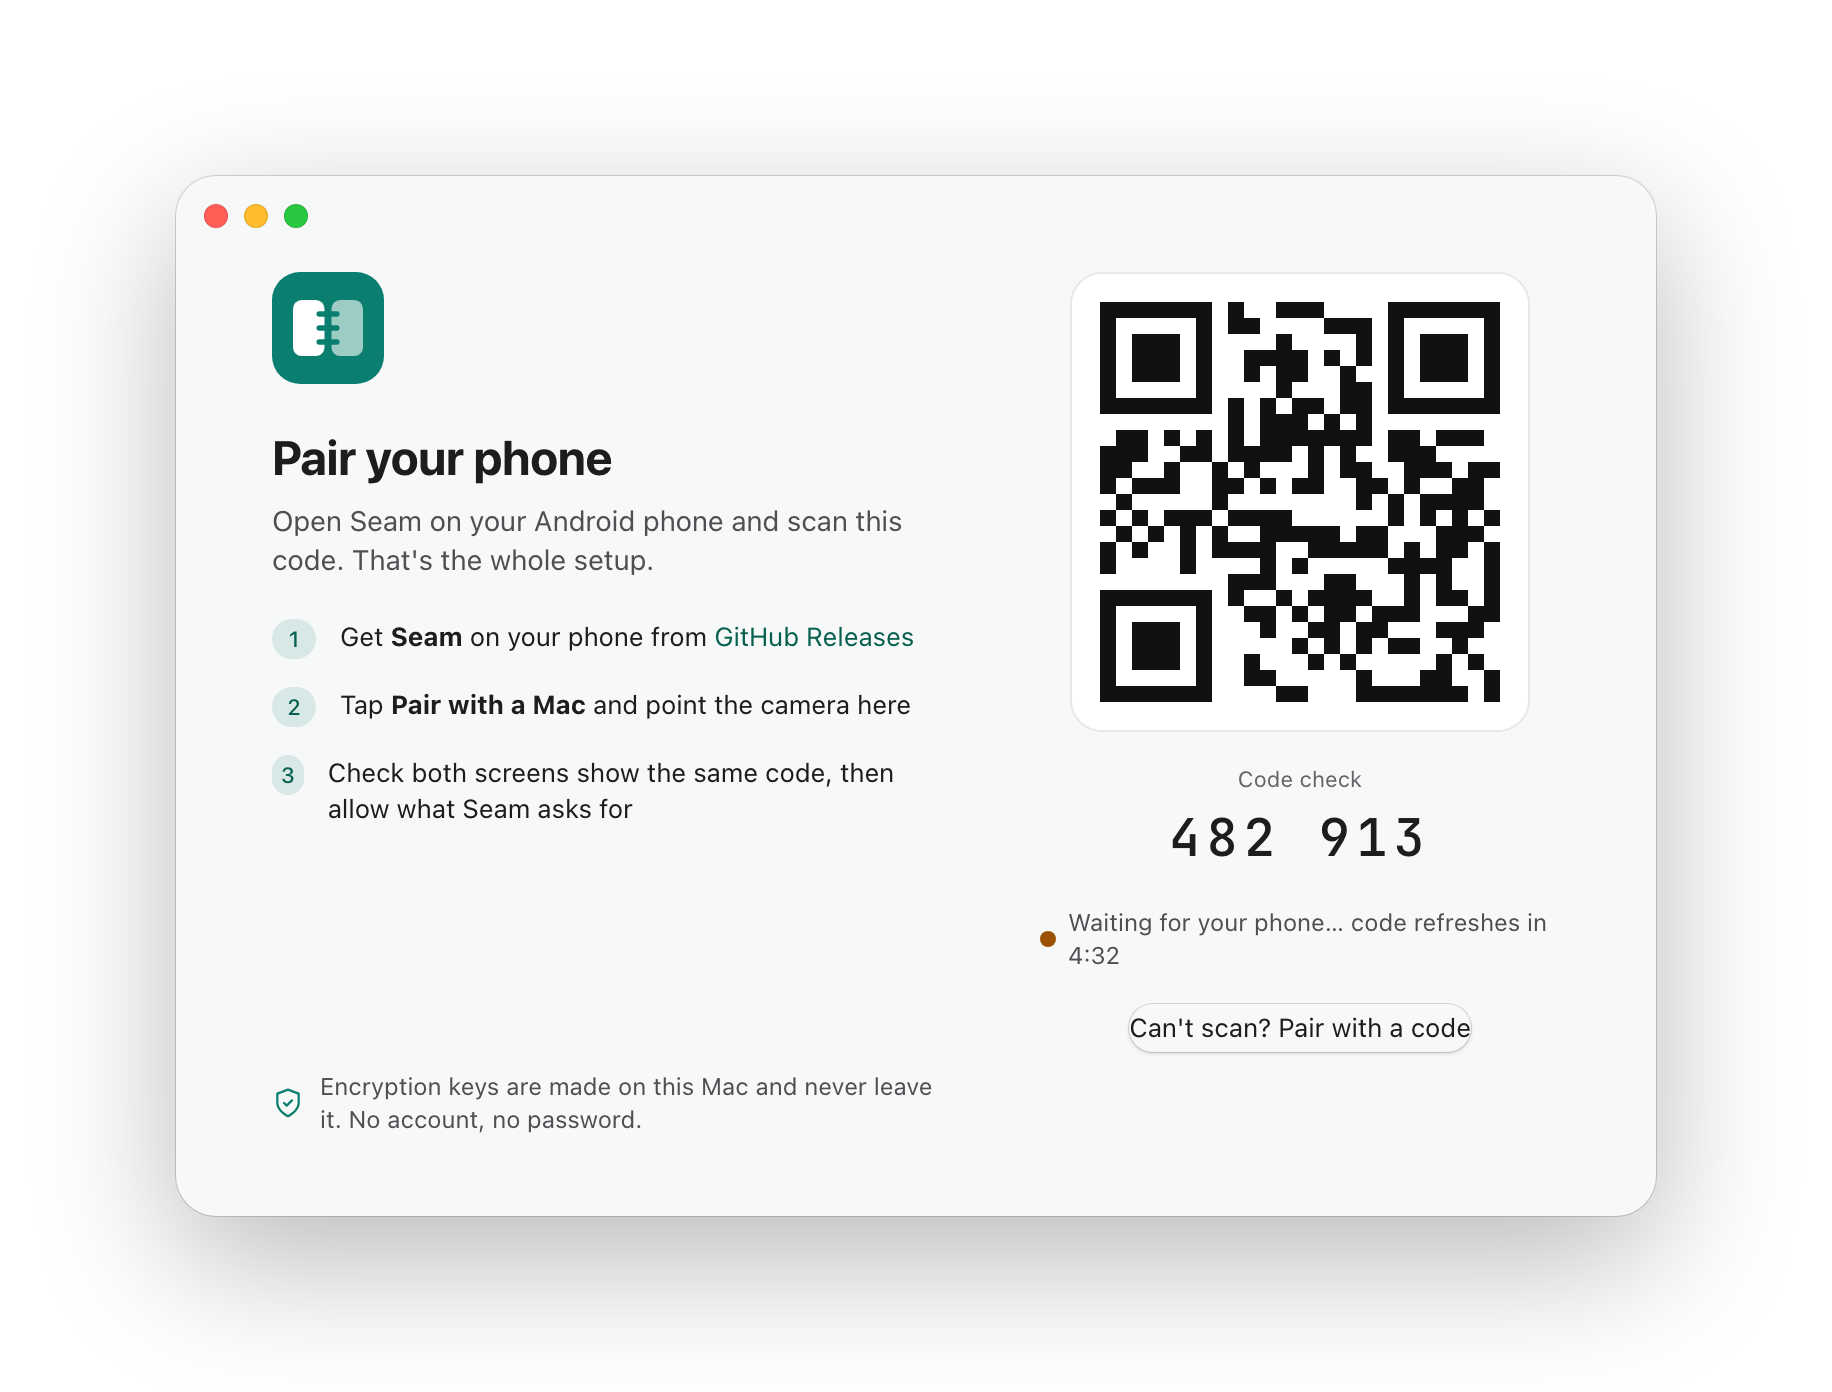
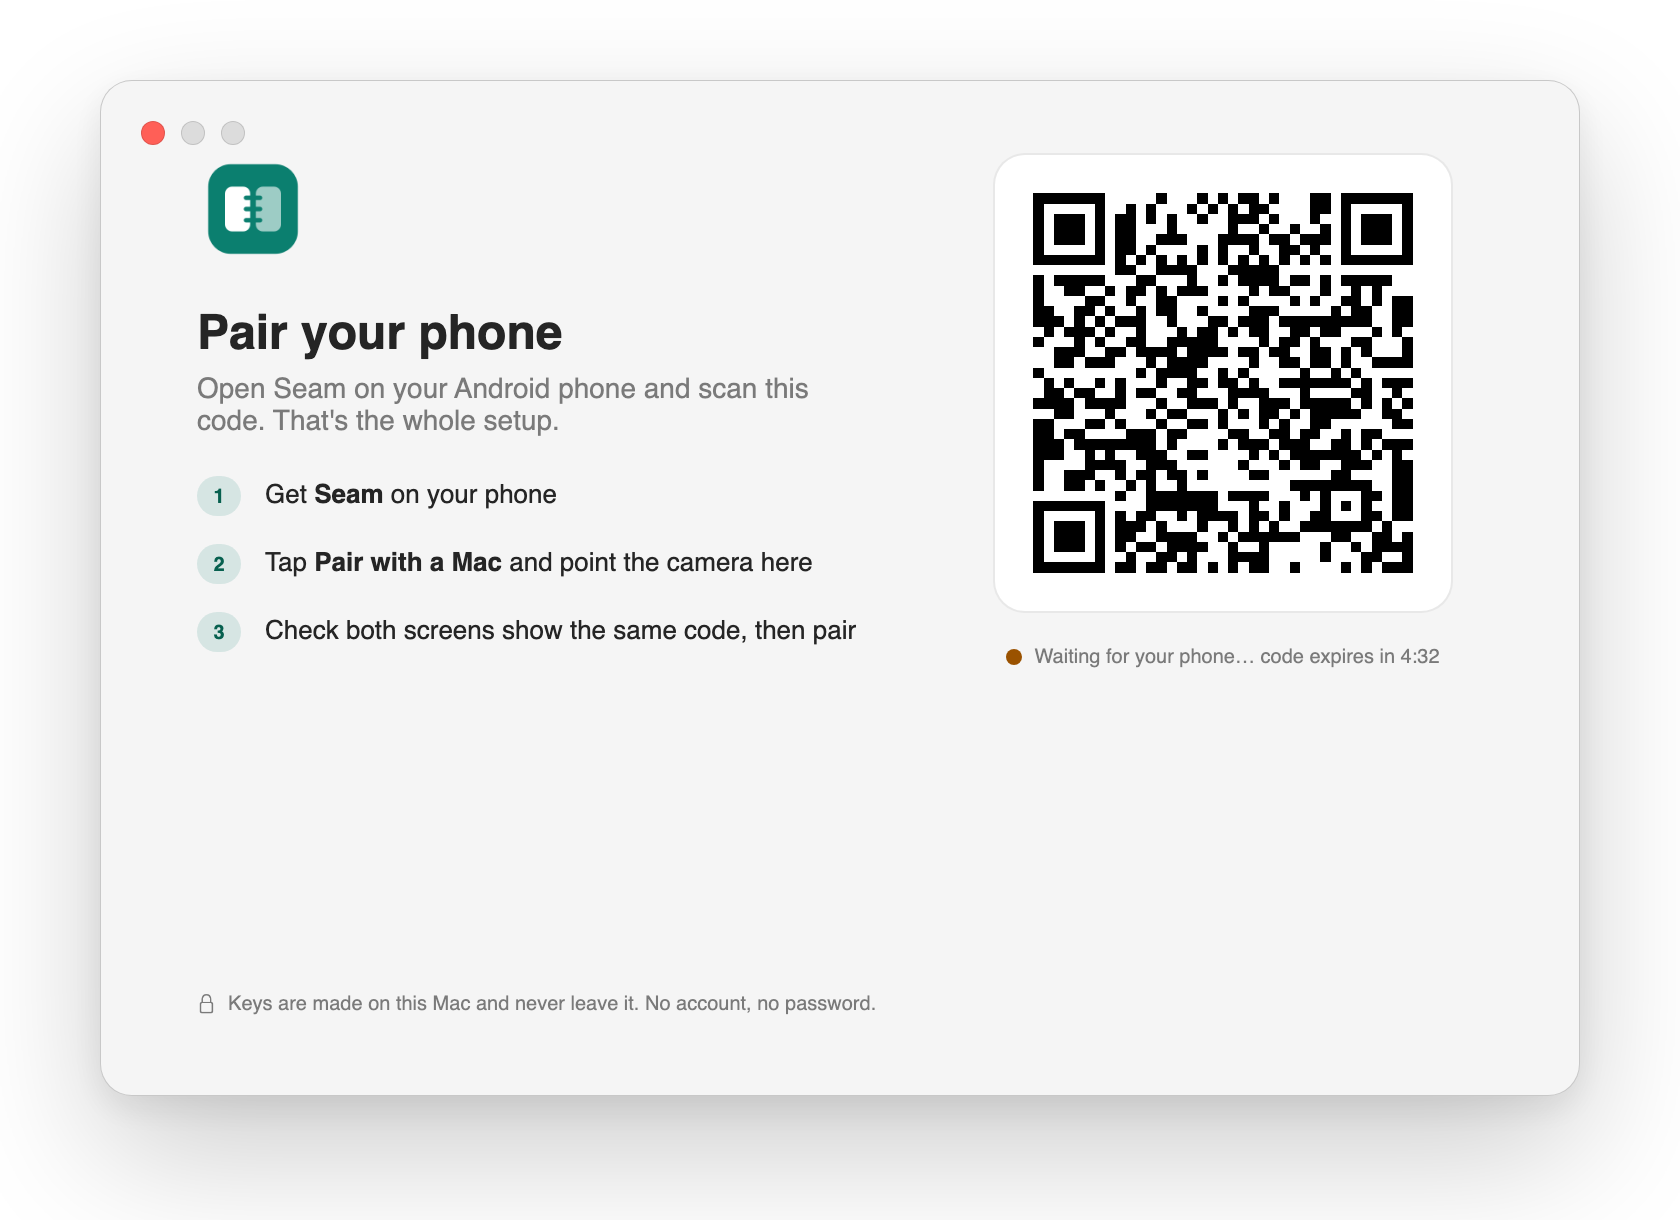
README: show only what Seam does today (#41)
## Summary

The README's pictures were design mockups showing features Seam doesn't
have (Lock Mac, Files, Photos, Ring phone, Messages…). They now show the
redesigned apps on main (#43, #44), and the text claims were checked
against the code and against each competitor's own pages.

```diff
 assets/readme/
-├── hero-animated.png        # mockup: Lock Mac, Files, Photos, Send file, Ring phone, Messages, Mark read
+├── hero-animated.png        # Mac: the approved popover prototype PopoverView.swift is built to; phone: real app renders from ScreensTest
-├── mac-notifications.png    # main window with Messages, Unread, "Open on phone" (not released)
-├── pairing.png              # "Can't scan? Pair with a code" and a code check that doesn't show yet
+├── pairing.png              # PairingView.swift while it waits for the phone
 ├── messages.png             # unchanged, under "Coming soon", captioned as planned
+└── src/                     # HTML for each picture; render.sh re-renders them (Chrome, Gradle, Pillow)
```

Also:
- **Mac:** pairing step 2 says "Tap **Pair with a Mac**", the phone's
real button (it said "Scan pairing code", which doesn't exist).
- **README:** Roadmap removed; the changelog link moves to Install; the
stale "(0.2.2)" goes. "No buttons" for phone copies now says automatic
clipboard has to be switched on once, or it's a tap of **Send
clipboard**.
- **Comparison table**, from each project's own pages: KDE Connect has a
stable Mac release
[…]

diff --git a/assets/readme/src/hero.html b/assets/readme/src/hero.html
@@ -1,0 +1,62 @@
+<!doctype html>
+<!-- README hero: text copied on the Mac lands on the phone. The Mac side is the approved popover
+     prototype (docs/design/prototypes/mac-popover.html), which PopoverView.swift is built to; the
+     phone is two real renders of the app from ScreensTest (home-wifi, then home-clip). -->
+<html><head><meta charset="utf-8"><style>
+* { box-sizing: border-box; margin: 0; padding: 0; }
+html, body { width: 1000px; height: 920px; background: transparent; overflow: hidden; color-scheme: light; }
+#mac { position: absolute; left: -32px; top: 162px; width: 480px; height: 660px; border: 0; transform: scale(1.12); transform-origin: 0 0; }
+
+.bezel { position: absolute; left: 540px; top: 49px; width: 382px; height: 822px; border-radius: 56px; background: #16191a;
+  box-shadow: 0 30px 70px rgba(0,0,0,.22), 0 6px 18px rgba(0,0,0,.12), inset 0 0 0 1.5px #2a2e30; }
+.screen { position: absolute; left: 11px; top: 11px; width: 360px; height: 800px; border-radius: 45px; overflow: hidden; }
+.screen img { position: absolute; inset: 0; width: 100%; height: 100%; }
+
+/* The copy in flight */
+.fly { position: absolute; left: 0; top: 0; height: 40px; padding: 0 16px 0 7px; border-radius: 20px; background: #0B6F61; color: #fff;
+  display: flex; align-items: center; gap: 10px; font: 600 15px -apple-system, sans-serif; white-space: nowrap;
+  box-shadow: 0 0 0 6px rgba(11,127,111,.16), 0 10px 28px rgba(11,111,97,.45); transform-origin: center; }
+.fly .k { background: rgba(255,255,255,.18); border-radius: 13px; padding: 4px 9px; font-size: 13px; }
+</style></head><body>
+
+<iframe id="mac" src="mac-popover.html"></iframe>
+
+<div class="bezel"><div class="screen">
+  <img src="home-wifi.png">
+  <img src="home-clip.png" id="clip">
+</div></div>
+
+<div class="fly" id="fly"><span class="k">⌘C</span>harbour-lights-42</div>
+
+<script>
+// Only the popover from the prototype page: no menu bar, controls or opening animation; light theme
+document.getElementById("mac").onload = e => {
+  const doc = e.target.contentDocument, s = doc.createElement("style");
+  s.textContent = ":root{color-scheme:light}body{background:transparent}.bar,.panel{display:none}" +
+    ".stage{justify-content:flex-start;padding:60px}*{transition:none!important}.pop,.stagger,.s-solid,.dot::after{animation:none!important}" +
+    // PopoverTiles.swift sizes Notifications to its words and gives Clipboard the rest
+    ".tiles{grid-template-columns:1fr auto}";
+  doc.head.append(s);
+  doc.getElementById("pop").classList.add("light");
+};
+
+// Frame n of 19 (from the URL hash): pill fades in over the popover, arcs to the phone, becomes the card
+const n = +location.hash.slice(1) || 19;
+const fly = document.getElementById("fly"), clip = document.getElementById("clip");
+const w = fly.offsetWidth, h = fly.offsetHeight;
+const from = [240, 440], to = [690, 546], ctrl = [620, 240];
+const ease = t => t < .5 ? 2 * t * t : 1 - (-2 * t + 2) ** 2 / 2;
+function at(t, scale, alpha) {
+  const u = 1 - t, x = u*u*from[0] + 2*u*t*ctrl[0] + t*t*to[0], y = u*u*from[1] + 2*u*t*ctrl[1] + t*t*to[1];
+  fly.style.transform = `translate(${x - w/2}px, ${y - h/2}px) scale(${scale})`;
+  fly.style.opacity = alpha;
+}
+//            1   2    3    4    5   6    7    8    9    10   11   12   13   14   15   16   17   18   19
+const path = [0,  0,   0,   0,   0,  .1,  .25, .42, .6,  .76, .88, .95, 1,   1,   1,   1,   1,   1,   1][n-1];
+const size = [1,  .8,  .9,  1,   1,  1,   1,   1,   .98, .95, .92, .9,  .9,  .9,  .9,  .9,  1,   1,   1][n-1];
+const show = [0,  .35, .7,  1,   1,  1,   1,   1,   1,   1,   1,   1,   .8,  .55, .3,  .1,  0,   0,   0][n-1];
+const cardA= [0,  0,   0,   0,   0,  0,   0,   0,   0,   0,   0,   0,   .3,  .55, .75, .9,  1,   1,   1][n-1];
+at(ease(path), size, show);
+clip.style.opacity = cardA;
+</script>
+</body></html>

diff --git a/assets/readme/src/pairing.html b/assets/readme/src/pairing.html
@@ -1,0 +1,47 @@
+<!doctype html>
+<!-- README: the Mac pairing window while it waits for the phone, as PairingView.swift draws it (pt = px). -->
+<html><head><meta charset="utf-8"><style>
+* { box-sizing: border-box; margin: 0; padding: 0; }
+html, body { width: 840px; height: 610px; background: transparent; overflow: hidden; }
+body { font: 13px -apple-system, sans-serif; color: rgba(0,0,0,.85); }
+.sym { display: inline-block; background: currentColor; -webkit-mask: var(--m) center / contain no-repeat; flex: none; }
+.sec { color: rgba(0,0,0,.5); }
+.win { position: absolute; left: 50px; top: 40px; width: 740px; height: 508px; border-radius: 16px; background: #f5f5f5;
+  border: 0.5px solid rgba(0,0,0,.18); box-shadow: 0 28px 70px rgba(0,0,0,.2), 0 6px 18px rgba(0,0,0,.08); }
+.lights { position: absolute; left: 20px; top: 20px; display: flex; gap: 8px; }
+.lights i { width: 12px; height: 12px; border-radius: 50%; border: 0.5px solid rgba(0,0,0,.12); background: #dcdcdc; }
+/* Under the 28 pt title bar: 8 pt top, 48 sides, 40 bottom */
+.body { position: absolute; left: 48px; right: 48px; top: 36px; bottom: 40px; display: flex; gap: 40px; align-items: flex-start; }
+.steps { flex: 1; height: 100%; display: flex; flex-direction: column; gap: 20px; }
+.step { display: flex; gap: 12px; align-items: baseline; }
+.n { width: 22px; height: 20px; border-radius: 10px; background: rgba(11,127,111,.13); color: #07604F; font-size: 10px; font-weight: 600;
+  display: inline-grid; place-items: center; flex: none; }
+.right { width: 260px; display: flex; flex-direction: column; align-items: center; gap: 16px; }
+.qr { padding: 14px; background: #fff; border-radius: 16px; border: 1px solid rgba(0,0,0,.09); }
+.qr img { width: 200px; height: 200px; image-rendering: pixelated; display: block; }
+</style></head><body>
+<div class="win">
+  <!-- Closable only: minimise and zoom are greyed out -->
+  <div class="lights"><i style="background:#ff5f57"></i><i></i><i></i></div>
+  <div class="body">
+    <div class="steps">
+      <img src="AppIcon.png" width="56" height="56">
+      <div><div style="font-size:24px;font-weight:700">Pair your phone</div>
+        <div class="sec" style="font-size:14px;margin-top:6px">Open Seam on your Android phone and scan this code. That's the whole setup.</div></div>
+      <div style="display:flex;flex-direction:column;gap:14px">
+        <div class="step"><span class="n">1</span><span>Get <b>Seam</b> on your phone</span></div>
+        <div class="step"><span class="n">2</span><span>Tap <b>Pair with a Mac</b> and point the camera here</span></div>
+        <div class="step"><span class="n">3</span><span>Check both screens show the same code, then pair</span></div>
+      </div>
+      <div class="sec" style="margin-top:auto;font-size:10px;display:flex;gap:6px;align-items:center">
+        <i class="sym" data-s="lock" data-pt="10"></i>Keys are made on this Mac and never leave it. No account, no password.</div>
+    </div>
+    <div class="right">
+      <div class="qr"><img src="qr.png"></div>
+      <div class="sec" style="font-size:10px;display:flex;gap:6px;align-items:center;font-variant-numeric:tabular-nums">
+        <i style="width:8px;height:8px;border-radius:50%;background:#9A5200"></i>Waiting for your phone… code expires in 4:32</div>
+    </div>
+  </div>
+</div>
+<script src="sym.js"></script>
+</body></html>

diff --git a/assets/readme/src/assets.swift b/assets/readme/src/assets.swift
@@ -1,0 +1,29 @@
+// Exports what the README mockups draw with: the real SF Symbols, and a QR code made like QRCodeImage.swift.
+import AppKit
+import CoreImage.CIFilterBuiltins
+
+let names = ["wifi", "globe", "iphone", "doc.on.clipboard", "bell", "bell.badge", "slider.horizontal.3",
+             "chevron.right", "checkmark.shield", "xmark", "lock"]
+func png(_ size: NSSize, to path: String, draw: () -> Void) {
+    let rep = NSBitmapImageRep(bitmapDataPlanes: nil, pixelsWide: Int(size.width * 2), pixelsHigh: Int(size.height * 2),
+                               bitsPerSample: 8, samplesPerPixel: 4, hasAlpha: true, isPlanar: false,
+                               colorSpaceName: .deviceRGB, bytesPerRow: 0, bitsPerPixel: 0)!
+    rep.size = size
+    NSGraphicsContext.saveGraphicsState()
+    NSGraphicsContext.current = NSGraphicsContext(bitmapImageRep: rep)
+    draw()
+    NSGraphicsContext.restoreGraphicsState()
+    try! rep.representation(using: .png, properties: [:])!.write(to: URL(fileURLWithPath: path))
+}
+// Drawn at 64 pt: CSS sizes in the pages are the symbol's size here × font size / 64
+for n in names {
+    let img = NSImage(systemSymbolName: n, accessibilityDescription: nil)!
+        .withSymbolConfiguration(.init(pointSize: 64, weight: .regular))!
+    png(img.size, to: "sym/\(n).png") { img.draw(in: NSRect(origin: .zero, size: img.size)) }
+}
+// A stand-in offer about as long as a real one; nobody can pair with it
+let filter = CIFilter.qrCodeGenerator()
+filter.message = Data("seam1:Hk3vQm9TzP2wLx8RbN4cYs7JfD6gA1eUoK5iVt0WqZ3nMh8XrC2yBj9pE4lG7aF".utf8)
+filter.correctionLevel = "M"
+let cg = CIContext().createCGImage(filter.outputImage!, from: filter.outputImage!.extent)!
+try! NSBitmapImageRep(cgImage: cg).representation(using: .png, properties: [:])!.write(to: URL(fileURLWithPath: "qr.png"))

diff --git a/assets/readme/src/sym.js b/assets/readme/src/sym.js
@@ -1,0 +1,12 @@
+// Sizes each <i class="sym" data-s="name" data-pt="font size"> like SwiftUI sizes an SF Symbol
+// next to text. The PNGs are drawn at 64 pt and 2x (assets.swift).
+for (const el of document.querySelectorAll(".sym[data-s]")) {
+  const url = `sym/${el.dataset.s}.png`, img = new Image();
+  img.onload = () => {
+    const k = +el.dataset.pt / 64 / 2;
+    el.style.width = img.naturalWidth * k + "px";
+    el.style.height = img.naturalHeight * k + "px";
+  };
+  img.src = url;
+  el.style.setProperty("--m", `url(${url})`);
+}

diff --git a/apps/mac/Seam/Pairing/PairingView.swift b/apps/mac/Seam/Pairing/PairingView.swift
@@ -79,7 +79,7 @@ struct PairingView: View {
             }
             VStack(alignment: .leading, spacing: 14) {
                 step(1, Text("Get **Seam** on your phone"))
-                step(2, Text("Tap **Scan pairing code** and point the camera here"))
+                step(2, Text("Tap **Pair with a Mac** and point the camera here"))
                 step(3, Text("Check both screens show the same code, then pair"))
             }
             Spacer()

diff --git a/README.md b/README.md
@@ -20,16 +20,12 @@
 </p>
 
 <p align="center">
-  <img src="assets/readme/hero-animated.png" width="560" alt="A link copied on the Mac appears on the Android phone a moment later">
+  <img src="assets/readme/hero-animated.png" width="560" alt="Text copied on the Mac appears on the Android phone a moment later">
 </p>
 
 ---
 
 ## Your phone, on your computer
-
-<p align="center">
-  <img src="assets/readme/mac-notifications.png" width="640" alt="Phone notifications in Seam's Mac window, with an inline reply">
-</p>
 
 ### 🔔 Notifications that follow you
 
@@ -39,7 +35,7 @@ You pick which apps get through. Every app starts off, and the phone filters bef
 
 ### 📋 Copy here, paste there
 
-Copy on your computer, paste on your phone. Copy a code on your phone, paste it on your computer. No buttons, no sharing sheets, no emailing yourself links.
+Copy on your computer, paste on your phone. Copy a code on your phone, paste it on your computer. Switch on automatic clipboard once and phone copies reach your computer by themselves; until then it's one tap of **Send clipboard**. No sharing sheets, no emailing yourself links.
 
 ### 🔋 Battery at a glance
 
@@ -68,15 +64,15 @@ The encryption, pairing and sync all live in one shared core, so each new platfo
 
 | | **Seam** | Bounce Connect | KDE Connect | Phone Link |
 |---|---|---|---|---|
-| **Your computer** | Mac today; Linux and Windows next | Mac | Linux, Windows; Mac as nightly builds | Windows |
-| **Works away from home** | ✅ Through Tor | Same Wi‑Fi only | Same network only | Through Microsoft's servers |
-| **Encryption** | Signal Protocol, end-to-end, post-quantum | AES-256 | TLS | Not published |
-| **Hides where you are** | ✅ Tor | Not needed (local only) | Not needed (local only) | No |
-| **Account** | None | None | None | Microsoft account |
-| **Open source** | ✅ AGPL-3.0 | Not stated | ✅ GPL | No |
-| **Price** | Free | Paid Android app | Free | Free with Windows |
+| **Your computer** | [Mac today; Linux and Windows next](#works-where-you-work) | [Mac](https://bounceconnect.app) | [Linux, Windows, Mac](https://kdeconnect.kde.org/download.html) | [Windows](https://www.microsoft.com/en-us/windows/sync-across-your-devices) |
+| **Works away from home** | ✅ [Through Tor](#private-by-design) | [Same Wi‑Fi only](https://bounceconnect.app) | [Same network, or through your own VPN](https://userbase.kde.org/KDEConnect) | [Over Wi‑Fi or mobile data](https://www.microsoft.com/en-us/windows/sync-across-your-devices) |
+| **Encryption** | [Signal Protocol, end-to-end, post-quantum](#private-by-design) | [AES-256](https://bounceconnect.app) | [TLS](https://invent.kde.org/network/kdeconnect-kde/-/blob/master/README.md) | [Not published](https://support.microsoft.com/en-us/windows/apps/phonelink/frequently-asked-questions-about-the-phone-link) |
+| **Hides where you are** | ✅ [Tor](#private-by-design) | [Not needed (local only)](https://bounceconnect.app/privacy) | [Not needed (local or your own VPN)](https://userbase.kde.org/KDEConnect) | [Not published](https://www.microsoft.com/en-us/windows/sync-across-your-devices) |
+| **Account** | [None](#set-up-in-ten-seconds) | [None](https://bounceconnect.app/privacy) | [None](https://userbase.kde.org/KDEConnect) | [Microsoft account](https://support.microsoft.com/en-us/windows/apps/phonelink/frequently-asked-questions-about-the-phone-link) |
+| **Open source** | ✅ [AGPL-3.0](LICENSE) | [Not stated](https://bounceconnect.app) | ✅ [GPL](https://invent.kde.org/network/kdeconnect-kde/-/blob/master/README.md) | [Not stated](https://www.microsoft.com/en-us/windows/sync-across-your-devices) |
+| **Price** | [Free](#faq) | [Paid Android app](https://bounceconnect.app) | [Free](https://kdeconnect.kde.org/) | [Comes with Windows](https://www.microsoft.com/en-us/windows/sync-across-your-devices) |
 
-<sub>From each project's own pages, October 2026. Something out of date? Please [open an issue](https://github.com/aveterosystems/seam/issues).</sub>
+<sub>Each value links to the project's own page it comes from, checked October 2026. Something out of date? Please [open an issue](https://github.com/aveterosystems/seam/issues).</sub>
 
 ## Set up in ten seconds
 
@@ -118,7 +114,7 @@ Found a vulnerability? Please read [SECURITY.md](SECURITY.md) rather than openin
 
 ## Install
 
-Seam is an early release (0.2.2). Expect rough edges, and tell us about them.
+Seam is an early release. Expect rough edges, and tell us about them. What changed in each version is in the [changelog](CHANGELOG.md).
 
 Download both apps from the [latest release](https://github.com/aveterosystems/seam/releases/latest).
 
@@ -147,22 +143,6 @@ Run the same for `Seam-<version>-android.apk`. Then check the files are signed b
[1 lines of base64/hex data omitted]
 
 The same fingerprints are kept in [`release/`](release/).
-
-## Roadmap
-
-- [x] Pair with a QR code, no account
-- [x] Clipboard both ways
-- [x] Phone battery on the computer
-- [x] Phone notifications, with reply and dismiss
-- [x] Direct connection on the same Wi‑Fi
-- [ ] Works anywhere through Tor, with no Seam servers in between *(in progress)*
-- [ ] Files both ways
-- [ ] Texts on your computer
-- [ ] Ring my phone
-- [ ] Seam for Linux
-- [ ] Seam for Windows
-
-Follow along in [issues](https://github.com/aveterosystems/seam/issues) and the [changelog](CHANGELOG.md).
 
 ## FAQ
 
